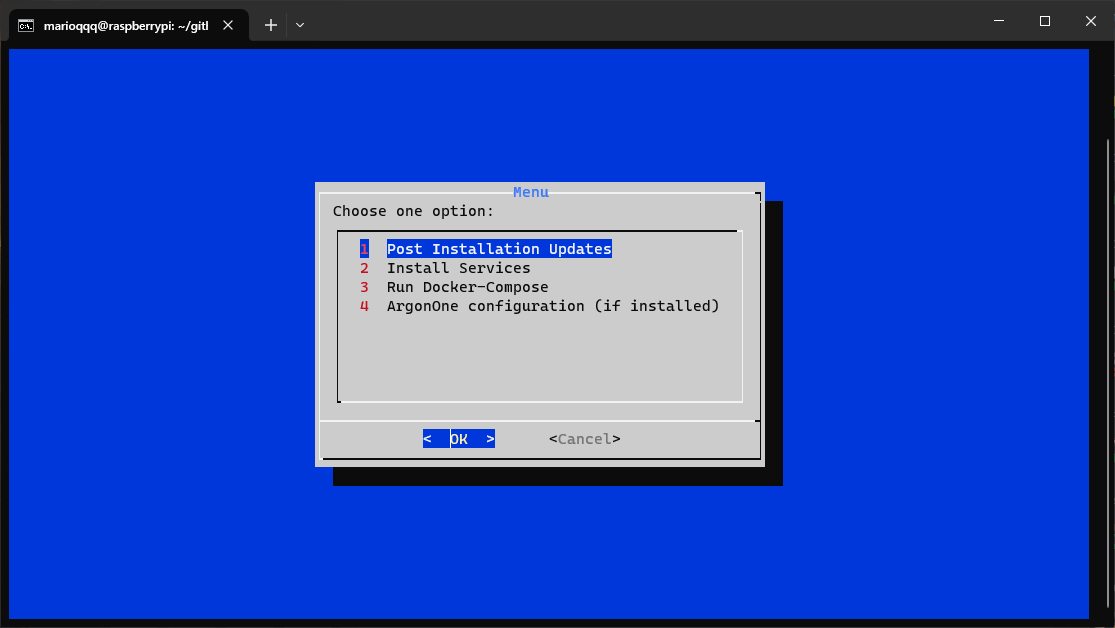
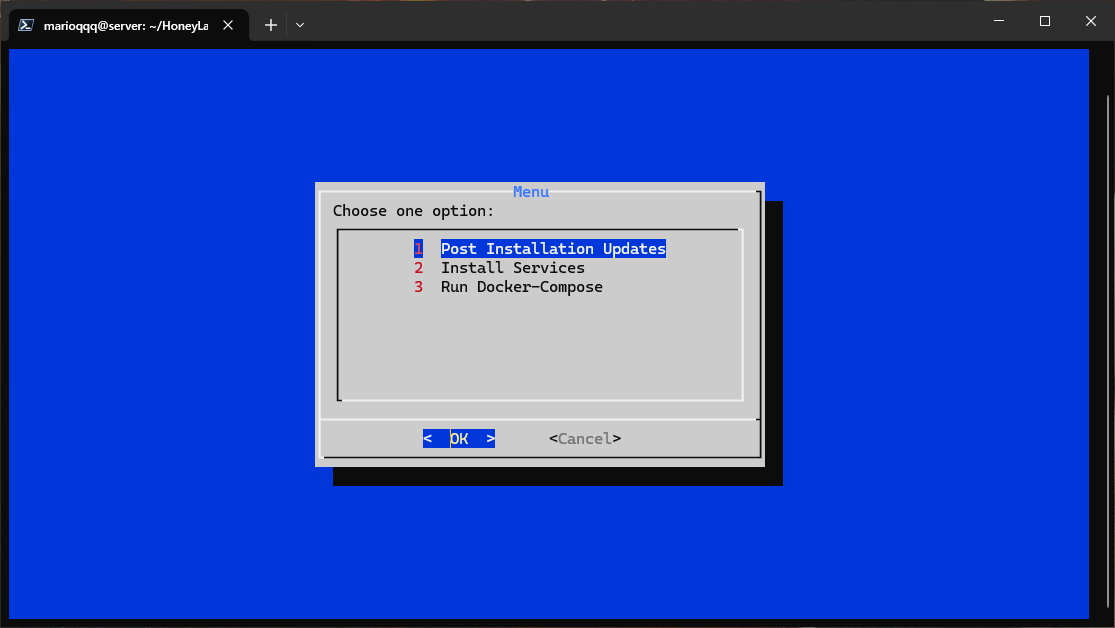
Readme edit

diff --git a/readme.md b/readme.md
@@ -2,7 +2,7 @@
 <div class="intro" align="center">
     <img src="./img/logo.png" width="25%" alt="logo">
 </div>
-This repository is a collection of services that I use. Purpose of this repository is to make it easier to install and configure these services after fresh install. I'm using Raspberry Pi 4 with 8GB of RAM and Raspberry Pi OS Lite (64-bit) released 11.12.2023. Currently few of my services are running at my NAS, but due to higher power consumption I decided to move them to Raspberry Pi.
+This repository is a collection of services that I use. Purpose of this repository is to make it easier to install and configure these services after fresh install. Currently I run an Ubuntu VM inside my TrueNas.
 
 ## ToC
 - [1. My network configuration](#1-my-network-configuration)
@@ -11,10 +11,7 @@ This repository is a collection of services that I use. Purpose of this reposito
     - [2.2 Install Services](#22-install-services)
         - [2.2.1 Docker](#221-docker)
         - [2.2.2 Docker-Compose](#222-docker-compose)
-        - [2.2.3 PiVPN](#223-pivpn)
-        - [2.2.4 ArgonOne](#224-argonone)
     - [2.3 Run Docker-Compose](#23-run-docker-compose)
-    - [2.4 ArgonOne Configuration](#24-argonone-configuration)
 - [3. To end](#3-to-end)
 - [TODO](#todo)
 
@@ -35,7 +32,7 @@ After starting it will check if `dialog` is installed. If not it will install it
 This will execute `sudo apt update && sudo apt upgrade -y && sudo apt autoremove -y`
 
 ### 2.2 Install Services
-Currently, there are 4 services available. But PiVPN is not working yet. More services will be added soon.
+Currently, there are only 2 services available.
 <div class="services" align="center">
     <img src="./img/services.png" width="50%" alt="services">
 </div>
@@ -46,36 +43,24 @@ Checks if already installed. If not it will execute `sudo apt install docker.io 
 #### 2.2.2 Docker-Compose
 Checks if already installed. If not it will execute `sudo apt install docker-compose -y`
 
-#### 2.2.3 PiVPN
-Currently not working.
-
-#### 2.2.4 ArgonOne
-It will check if directory `/etc/argon` exists. If not it will execute `curl https://download.argon40.com/argon1.sh | bash`. Not sure if this is the best way to find if ArgonOne is installed.
-
 ### 2.3 Run Docker-Compose
-Currently not working.
-
-### 2.4 ArgonOne Configuration
-It will run Argon Configuration tool.
-<div class="argon" align="center">
-    <img src="./img/argon.png" width="50%" alt="argon">
+You can select containers that will be started.
+<div class="dockerCompose" align="center">
+    <img src="./img/dockerCompose.png" width="50%" alt="docker compose">
 </div>
 
 ## 3. To end
-When you are done, you can exit the menu with `Cancel`. After that, you will be asked if you want to reboot.
-<div class="reboot" align="center">
-    <img src="./img/reboot.png" width="50%" alt="reboot">
-</div>
+When you are done, you can exit the menu with `Cancel`.
 
 ## TODO
 - [x] Make `run.sh` running at least partially
 - [x] Run few docker containers
 - [x] Make `readme.md`
 - [ ] Redo network diagram
-- [ ] Make service diagram
-- [ ] Finish `run.sh`
-- [ ] Add additional services
+- [x] Make service diagram - won't make
+- [x] Finish `run.sh`
+- [x] Add additional services - won't add
 - [ ] Make Docker-Compose work with option to edit variables
-- [ ] Run all services
-- [ ] Make additional `readme.md` for each container
+- [x] Run all services
+- [x] Make additional `readme.md` for each container - not needed
 - [ ] Finish `readme.md`
